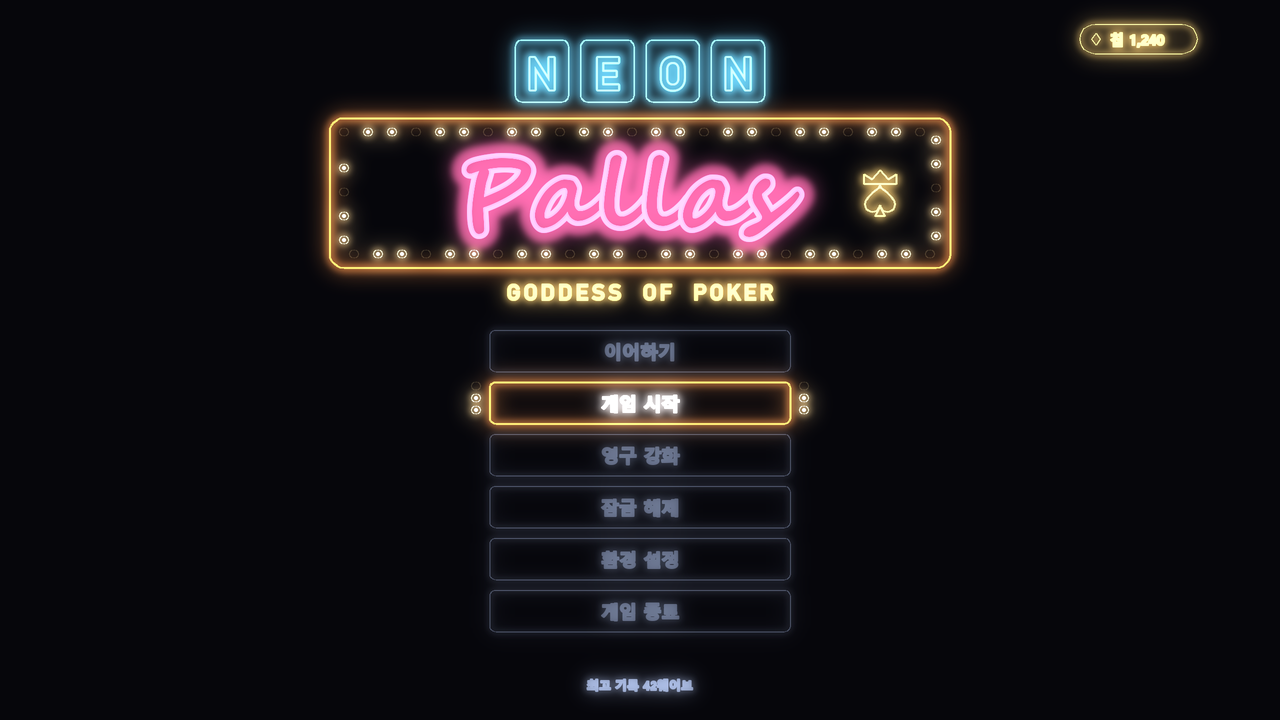
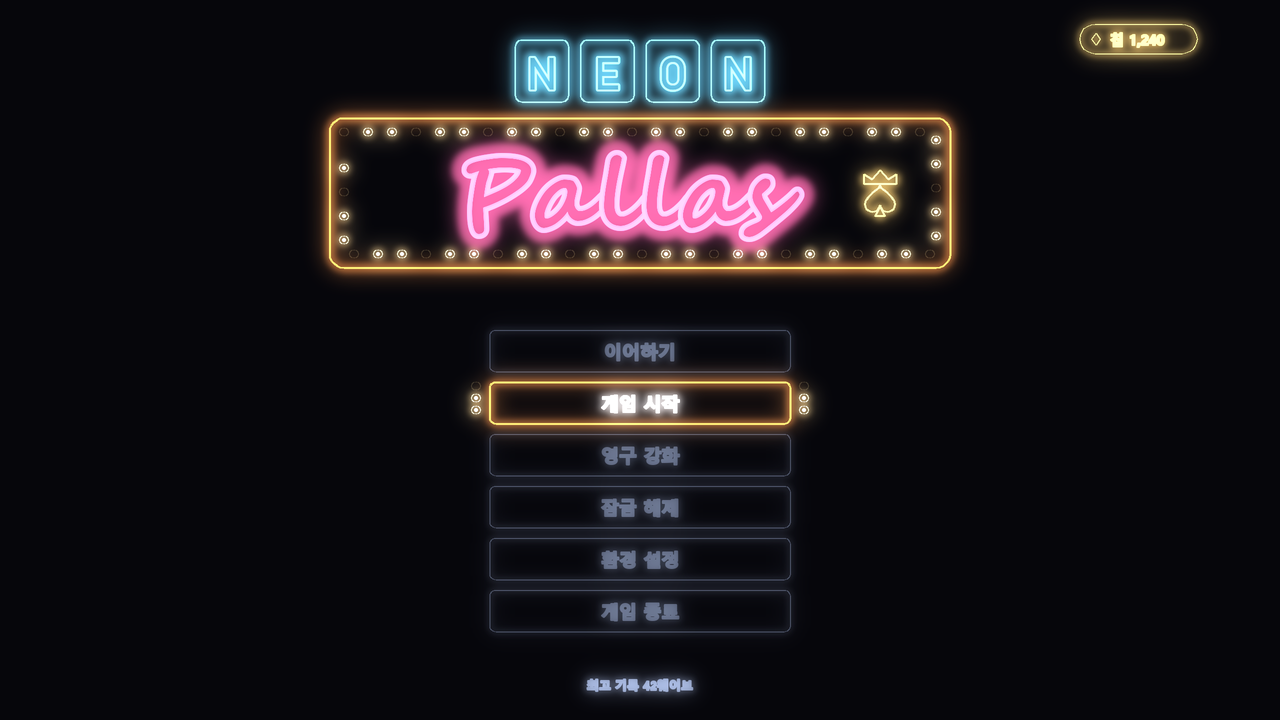
Title mockups: drop the 'Goddess of Poker' subtitle

Changed region(s): [[0.375, 0.3667, 0.625, 0.4583]]

diff --git a/tools/neon/title_retro.py b/tools/neon/title_retro.py
@@ -44,7 +44,6 @@ def title_1(phase=0):
     bulbs(M, [(344, 132), (936, 132), (936, 254), (344, 254), (344, 132)], 24, phase)
     M.word(620, 228, 'Pallas', PINK, 96, None, font=SCRIPT)
     spade_crown(M, 880, 195, 20, GOLD)
-    M.word(640, 300, 'GODDESS  OF  POKER', GOLD, 22, None, track=3, font=BLOCK)
     chip(M, 1080, 24, '칩 1,240', GOLD)
     for i, n in enumerate(MENU):
         y = 330 + i * 52
@@ -73,7 +72,6 @@ def title_2(phase=0):
     M.word(cx, cy + 34, 'Pallas', PINK, 78, None, font=SCRIPT)
     M.ln([(cx - 90, cy + 56), (cx + 90, cy + 56)], CYAN, 1.6)
     spade_crown(M, cx, cy + 92, 14, GOLD)
-    M.word(cx, 340, 'GODDESS  OF  POKER', GOLD, 20, None, track=3, font=BLOCK)
     chip(M, 1080, 24, '칩 1,240', GOLD)
     for i, n in enumerate(MENU):
         y = 362 + i * 50
@@ -100,7 +98,6 @@ def title_3(phase=0):
         q = [(640 + (x - 640) * 1.9, 190 + (y - 190) * 0.62) for x, y in p]
         M.ln(q, ORANGE, 2.4)
     M.word(640, 214, 'Pallas', PINK, 96, None, font=SCRIPT)
-    M.word(640, 322, 'GODDESS  OF  POKER', GOLD, 20, None, track=3, font=BLOCK)
     chip(M, 1080, 24, '칩 1,240', GOLD)
     suits = ['spade', 'heart', 'diamond', 'club', 'spade', 'heart']
     cols = [CYAN, PINK, GOLD, (138, 255, 196), CYAN, PINK]
